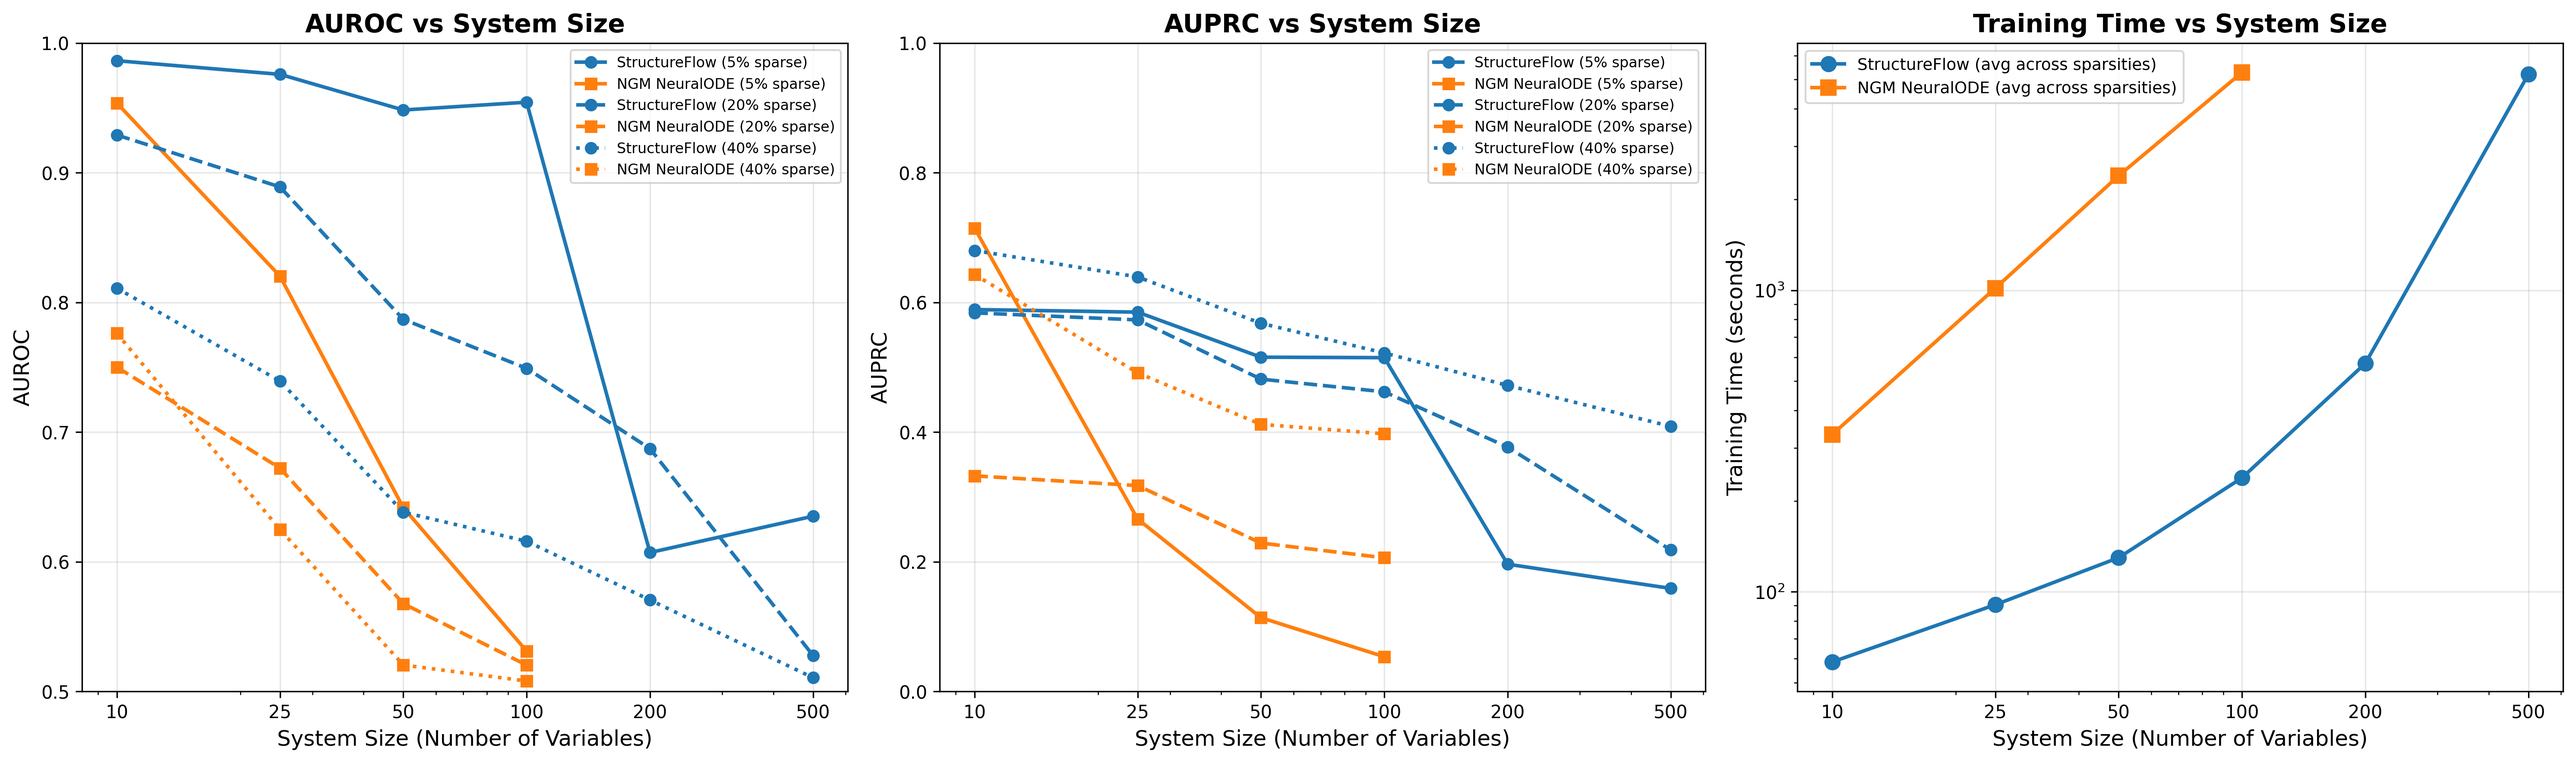
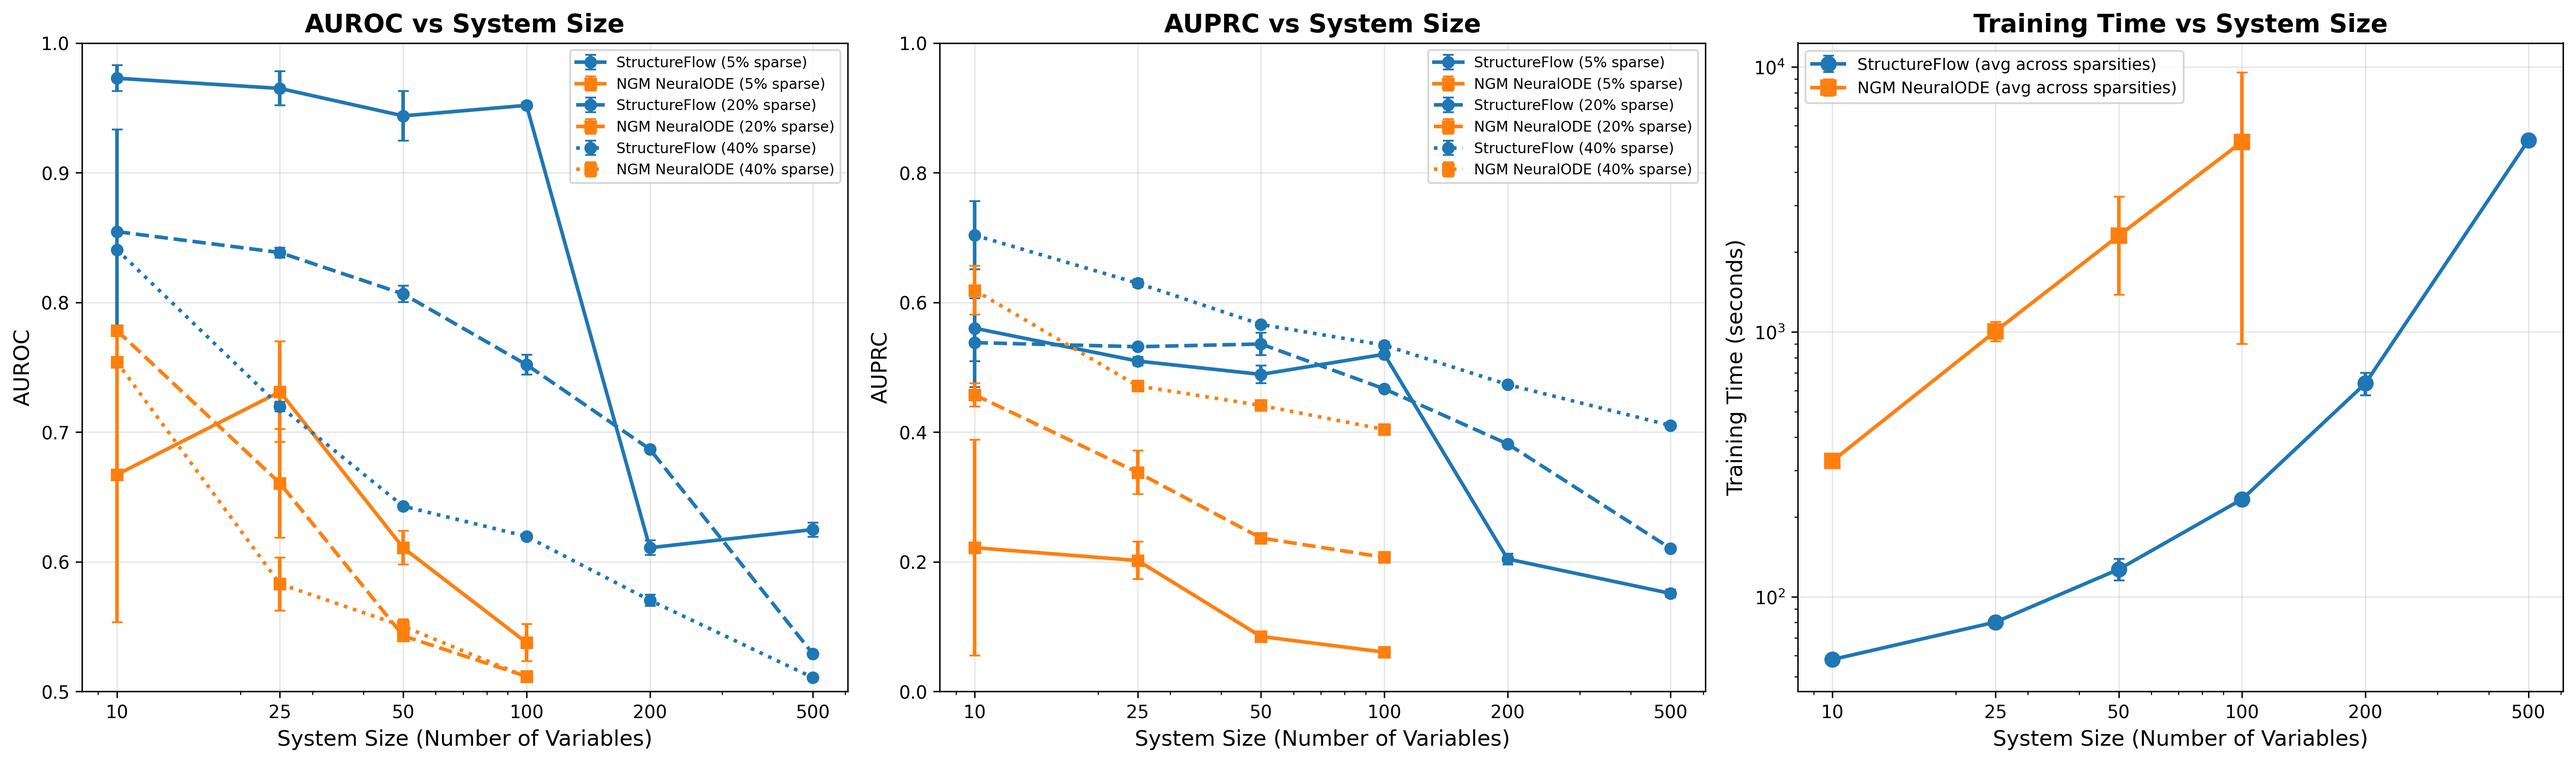
test

diff --git a/scaling_experiment/plot_scaling_results.py b/scaling_experiment/plot_scaling_results.py
@@ -11,70 +11,131 @@ def plot_scaling_results():
     Uses CSV data with different sparsity levels for StructureFlow and NGM-NODE methods.
     """
 
-    # CSV data from the experiment results
-    csv_data = """seed,system_size,sparsity,structureflow_auroc,structureflow_auprc,structureflow_time,ngmnode_auroc,ngmnode_auprc,ngmnode_time
-3728,10,0.05,0.9863,0.5889,58.5515,0.9536,0.7143,316.0287
-3728,10,0.20,0.9290,0.5838,58.6428,0.7500,0.3324,339.1738
-3728,10,0.40,0.8109,0.6799,58.4385,0.7761,0.6428,342.7522
-3728,25,0.05,0.9758,0.5849,94.6083,0.8202,0.2659,1061.2054
-3728,25,0.20,0.8890,0.5729,97.4592,0.6722,0.3174,1054.7041
-3728,25,0.40,0.7393,0.6392,79.8138,0.6249,0.4913,934.0664
-3728,50,0.05,0.9483,0.5154,145.0283,0.6417,0.1137,3170.8114
-3728,50,0.20,0.7869,0.4816,122.5391,0.5677,0.2288,2773.2565
-3728,50,0.40,0.6382,0.5677,121.8200,0.5204,0.4118,1252.6854
-3728,100,0.05,0.9543,0.5147,248.4641,0.5311,0.0535,10463.3073
-3728,100,0.20,0.7491,0.4620,235.3687,0.5203,0.2061,2967.9328
-3728,100,0.40,0.6158,0.5219,232.6693,0.5080,0.3973,2409.0556
-3728,200,0.05,0.6071,0.1962,577.1567,,,
-3728,200,0.20,0.6872,0.3768,569.9031,,,
-3728,200,0.40,0.5705,0.4719,570.0570,,,
-3728,500,0.05,0.6351,0.1589,4965.4467,,,
-3728,500,0.20,0.5277,0.2181,5328.5185,,,
-3728,500,0.40,0.5106,0.4087,5315.9313,,,"""
+    # CSV data from the experiment results (multiple seeds)
+    csv_data = """num_vars,seed,sparsity_target,sparsity_actual,true_edges,edge_density,max_eigenvalue_real,Correlation-pearson_AUROC,Correlation-pearson_AUPRC,Correlation-pearson_training_time,Correlation-pearson_num_true_edges,StructureFlow_AUROC,StructureFlow_AUPRC,StructureFlow_training_time,StructureFlow_num_true_edges,NGM-NODE_AUROC,NGM-NODE_AUPRC,NGM-NODE_training_time,NGM-NODE_num_true_edges,experiment_id,total_experiments
+10,4852,0.05,0.06666666666666667,6,0.06666666666666667,0.0,0.9734042553191489,0.7028138528138528,0.018625736236572266,6,0.9627659574468085,0.509090909090909,57.84497809410095,6,0.7810283687943262,0.3880834899749373,322.7519874572754,6.0,1,36
+10,4852,0.2,0.26666666666666666,24,0.26666666666666666,0.395655448780167,0.8135964912280701,0.5441361603475161,0.012085437774658203,24,0.7757675438596491,0.4692447182908081,57.832767486572266,24,0.7785087719298245,0.47540794937623915,324.6383876800537,24.0,2,36
+10,4852,0.4,0.4111111111111111,37,0.4111111111111111,1.3182096866621533,0.8631488631488632,0.7907212834471284,0.012024879455566406,37,0.8421278421278421,0.7562902634055009,57.44078350067139,37,0.752895752895753,0.6563467965949508,328.1729917526245,37.0,3,36
+25,4852,0.05,0.043333333333333335,26,0.043333333333333335,0.5922078331269707,0.9792603056376012,0.5439231326379298,0.06764602661132812,26,0.9780724284063181,0.5028348937550893,87.44798159599304,26,0.7698407602414281,0.17294465805593287,1063.5547759532928,26.0,4,36
+25,4852,0.2,0.20333333333333334,122,0.20333333333333334,1.4305823939895372,0.8249193364403741,0.5595433355443513,0.06808209419250488,122,0.834493041749503,0.5292155372923445,77.5687415599823,122,0.7024655346608872,0.37147276335234236,997.8577566146851,122.0,5,36
+25,4852,0.4,0.425,255,0.425,1.9448587728752682,0.7307154213036565,0.6671333191730175,0.06723880767822266,255,0.716120826709062,0.6356068852578105,77.48430800437927,255,0.5623635400105989,0.4655221440980293,824.9652671813965,255.0,6,36
+50,4852,0.05,0.05061224489795919,124,0.05061224489795919,0.9029008473795888,0.9500753502769631,0.5227702410383083,0.44240498542785645,124,0.9247023324644292,0.47501918118317865,152.57684564590454,124,0.5977449223416965,0.0778863190985196,3123.374433517456,124.0,7,36
+50,4852,0.2,0.20530612244897958,503,0.20530612244897958,2.3717790475785843,0.8656085519929995,0.6316451281948303,0.43462538719177246,503,0.812686226158323,0.5528893190794936,119.93507289886475,503,0.5411253062496328,0.23896093426619205,2550.32168841362,503.0,8,36
+50,4852,0.4,0.4008163265306122,982,0.4008163265306122,2.9518286499428354,0.7080847883778904,0.6359765607805926,0.42153072357177734,982,0.642092916233977,0.5640048208068421,119.54320907592773,982,0.5557294140376581,0.4414136447103131,1409.912146806717,982.0,9,36
+100,4852,0.05,0.05141414141414141,509,0.05141414141414141,1.5918627066326754,0.9705788898551185,0.5697944849005392,1.9889872074127197,509,0.9495254422605721,0.5183048428380559,237.41640973091125,509,0.5233350010629447,0.05770131366065983,10360.619023323059,509.0,10,36
+100,4852,0.2,0.2006060606060606,1986,0.2006060606060606,3.2186210953942624,0.8243974354044572,0.5559764380525823,2.2313003540039062,1986,0.7595058659933234,0.4685942391145377,231.6057665348053,1986,0.5109463210278287,0.2035805347143642,3091.8110506534576,1986.0,11,36
+100,4852,0.4,0.39616161616161616,3922,0.39616161616161616,4.323132007151699,0.6578295686586025,0.5801396233834728,4.368826866149902,3922,0.6195861248944748,0.5296250846965184,233.59105587005615,3922,0.5092083552941457,0.3973237266569635,2388.5191402435303,3922.0,12,36
+200,4852,0.05,0.05050251256281407,2010,0.05050251256281407,2.2949998574409403,0.96814073879091,0.5526191264144195,7.927350759506226,2010,0.6165340774411701,0.21256994183718592,571.4490671157837,2010,,,,,13,36
+200,4852,0.2,0.2014070351758794,8016,0.2014070351758794,5.244219711505882,0.7674918500293061,0.4897851792773821,7.621973991394043,8016,0.6868925843441931,0.38349873985718347,816.0332379341125,8016,,,,,14,36
+200,4852,0.4,0.4037437185929648,16069,0.4037437185929648,6.501912281236235,0.6218929139158376,0.5434334918619736,9.272216081619263,16069,0.5659527723198657,0.4721297261061206,733.2379455566406,16069,,,,,15,36
+500,4852,0.05,0.04988777555110221,12447,0.04988777555110221,3.8611548089595615,0.9566752835561358,0.5056815473923015,68.93512034416199,12447,0.630302922060287,0.15696211134066831,5138.624960422516,12447,,,,,16,36
+500,4852,0.2,0.19991583166332666,49879,0.19991583166332666,7.902942738804681,0.6907708196953042,0.39733471936704684,60.267064571380615,49879,0.5289162359044275,0.22013346016343596,5084.449959278107,49879,,,,,17,36
+500,4852,0.4,0.4006733466933868,99968,0.4006733466933868,10.794718762436169,0.5796870370572546,0.4911130286332667,62.461748361587524,99968,0.5104833479061066,0.4090570671710845,5428.748547077179,99968,,,,,18,36
+10,2502,0.05,0.03333333333333333,3,0.03333333333333333,0.0,0.993127147766323,0.8055555555555556,0.24680805206298828,3,0.9828178694158075,0.6111111111111112,60.89986515045166,3,0.5532646048109965,0.055272108843537414,313.9014484882355,3.0,19,36
+10,2502,0.2,0.14444444444444443,13,0.14444444444444443,0.45274256050913675,0.9336870026525199,0.6670541199116324,0.021987438201904297,13,0.9332449160035367,0.6064580347189044,57.0928475856781,13,0.7780725022104332,0.43960817162269067,328.5199406147003,13.0,20,36
+10,2502,0.4,0.3333333333333333,30,0.3333333333333333,0.8311741245831212,0.8638095238095238,0.7129846759193442,0.011591434478759766,30,0.8390476190476192,0.6508294299766001,56.757171869277954,30,0.7552380952380953,0.5807710817767366,336.25325417518616,30.0,21,36
+25,2502,0.05,0.05333333333333334,32,0.05333333333333334,0.7196140462937763,0.9381323777403034,0.5174637896473324,0.0668649673461914,32,0.9517811973018548,0.5160586468732333,80.30390334129333,32,0.692295531197302,0.23074941235248975,1068.1875479221344,32.0,22,36
+25,2502,0.2,0.19833333333333333,119,0.19833333333333333,1.3123505169597558,0.8755272860132195,0.5792912693317145,0.06846141815185547,119,0.8422792041717873,0.5339294313329173,78.74769520759583,119,0.6186601122662504,0.3039079820751982,1081.0779702663422,119.0,23,36
+25,2502,0.4,0.385,231,0.385,1.732993189034112,0.7258663502318325,0.6388499507982699,0.06640362739562988,231,0.7234766079943745,0.6233801558082154,79.93856620788574,231,0.6033632188454524,0.4766637796190075,995.7301144599915,231.0,24,36
+50,2502,0.05,0.05061224489795919,124,0.05061224489795919,1.011096206290654,0.9766515966112741,0.570391982943973,0.74066162109375,124,0.9628102259150646,0.5027629030484266,128.71913838386536,124,0.6237271912675139,0.09157567784636376,3192.3506700992584,124.0,25,36
+50,2502,0.2,0.20489795918367346,502,0.20489795918367346,2.2483800453103733,0.8555806802818755,0.5841160314833563,0.36829495429992676,502,0.8002683958859258,0.5185753101194658,121.33024144172668,502,0.5446083533732936,0.2342731467410447,2368.58771276474,502.0,26,36
+50,2502,0.4,0.4048979591836735,992,0.4048979591836735,2.864936135818015,0.704673863052965,0.6335978337504595,0.541236162185669,992,0.6435709816462736,0.5677720499751625,119.8461434841156,992,0.5446442895952769,0.4405993383653992,1217.2671146392822,992.0,27,36
+100,2502,0.05,0.05171717171717172,512,0.05171717171717172,1.621375368082806,0.9735850548060708,0.5677566445259788,1.9422035217285156,512,0.954265214942559,0.5215528299995554,231.66685247421265,512,0.5519869259195826,0.06354449333459561,10017.93087887764,512.0,28,36
+100,2502,0.2,0.20656565656565656,2045,0.20656565656565656,3.2842529847499775,0.8198650415924539,0.5568001360244068,2.343620777130127,2045,0.744290976596657,0.4645960126865602,232.7276487350464,2045,0.5122506027947547,0.2101899865277203,3071.490483045578,2045.0,29,36
+100,2502,0.4,0.40545454545454546,4014,0.40545454545454546,4.275314334045096,0.6645226505093849,0.5940594166285376,1.9593420028686523,4014,0.6194301609918242,0.5382326014982242,234.22895073890686,4014,0.5131996457104444,0.41053888331431937,2378.5854711532593,4014.0,30,36
+200,2502,0.05,0.051457286432160805,2048,0.051457286432160805,2.4913927807530074,0.9694603056368901,0.549223169181854,7.6718058586120605,2048,0.6050699115000526,0.19588061767962656,571.2099781036377,2048,,,,,31,36
+200,2502,0.2,0.19924623115577889,7930,0.19924623115577889,4.6654139694379095,0.7738436412151697,0.490576798241162,7.632061004638672,7930,0.6866895221715108,0.379842272121609,571.0319414138794,7930,,,,,32,36
+200,2502,0.4,0.39977386934673365,15911,0.39977386934673365,6.696018599710984,0.6306827180548562,0.5518513860566123,7.34396767616272,15911,0.574681301138012,0.47429580458434983,571.5179307460785,15911,,,,,33,36
+500,2502,0.05,0.050569138276553106,12617,0.050569138276553106,3.7046298903105104,0.9528146534159547,0.49974282880661985,62.05327916145325,12617,0.6193330312429121,0.14535419062724012,5360.002261638641,12617,,,,,34,36
+500,2502,0.2,0.2014188376753507,50254,0.2014188376753507,8.180315170301121,0.6895586017834803,0.3970475162183286,61.09390330314636,50254,0.5291851691465888,0.2208703164645075,5353.444791316986,50254,,,,,35,36
+500,2502,0.4,0.40139078156312624,100147,0.40139078156312624,11.074895782446818,0.5797805580917403,0.49229326803046286,60.75722599029541,100147,0.5108339833222751,0.4111183272903037,5351.249730587006,100147,,,,,36,36"""
 
     df = pd.read_csv(io.StringIO(csv_data))
+
+    # Calculate means and standard errors across seeds for each system size and sparsity
+    def calculate_stats(group):
+        stats = {}
+        for col in [
+            "StructureFlow_AUROC",
+            "StructureFlow_AUPRC",
+            "StructureFlow_training_time",
+            "NGM-NODE_AUROC",
+            "NGM-NODE_AUPRC",
+            "NGM-NODE_training_time",
+        ]:
+            if col in group.columns:
+                values = group[col].dropna()
+                if len(values) > 0:
+                    stats[f"{col}_mean"] = values.mean()
+                    stats[f"{col}_std"] = values.std()
+                    stats[f"{col}_count"] = len(values)
+                else:
+                    stats[f"{col}_mean"] = np.nan
+                    stats[f"{col}_std"] = np.nan
+                    stats[f"{col}_count"] = 0
+        return pd.Series(stats)
+
+    # Group by system size and sparsity target, then calculate statistics
+    stats_df = (
+        df.groupby(["num_vars", "sparsity_target"]).apply(calculate_stats).reset_index()
+    )
+    stats_df = stats_df.rename(
+        columns={"num_vars": "system_size", "sparsity_target": "sparsity"}
+    )
 
     # Set up the plotting style
     plt.style.use("default")
 
     # Define colors and line styles
     colors = {"StructureFlow": "#1f77b4", "NGM-NODE": "#ff7f0e"}
-    line_styles = {0.05: "-", 0.20: "--", 0.40: ":"}
-    sparsity_labels = {0.05: "5% sparse", 0.20: "20% sparse", 0.40: "40% sparse"}
+    line_styles = {0.05: "-", 0.2: "--", 0.4: ":"}
+    sparsity_labels = {0.05: "5% sparse", 0.2: "20% sparse", 0.4: "40% sparse"}
 
     # Create figure with three subplots
     fig, (ax1, ax2, ax3) = plt.subplots(1, 3, figsize=(20, 6))
 
     # Plot 1: AUROC vs System Size
-    for sparsity in [0.05, 0.20, 0.40]:
-        sparsity_data = df[df["sparsity"] == sparsity]
+    for sparsity in [0.05, 0.2, 0.4]:
+        sparsity_data = stats_df[stats_df["sparsity"] == sparsity]
 
         # StructureFlow
         x_sf = sparsity_data["system_size"]
-        y_sf = sparsity_data["structureflow_auroc"]
-        ax1.plot(
+        y_sf = sparsity_data["StructureFlow_AUROC_mean"]
+        y_err_sf = sparsity_data["StructureFlow_AUROC_std"] / np.sqrt(
+            sparsity_data["StructureFlow_AUROC_count"]
+        )
+        ax1.errorbar(
             x_sf,
             y_sf,
+            yerr=y_err_sf,
             color=colors["StructureFlow"],
             linestyle=line_styles[sparsity],
             marker="o",
             linewidth=2,
             markersize=6,
+            capsize=3,
+            capthick=1,
             label=f"StructureFlow ({sparsity_labels[sparsity]})",
         )
 
         # NGM-NODE (filter out NaN values)
-        ngm_data = sparsity_data.dropna(subset=["ngmnode_auroc"])
+        ngm_data = sparsity_data.dropna(subset=["NGM-NODE_AUROC_mean"])
         x_ngm = ngm_data["system_size"]
-        y_ngm = ngm_data["ngmnode_auroc"]
-        ax1.plot(
+        y_ngm = ngm_data["NGM-NODE_AUROC_mean"]
+        y_err_ngm = ngm_data["NGM-NODE_AUROC_std"] / np.sqrt(
+            ngm_data["NGM-NODE_AUROC_count"]
+        )
+        ax1.errorbar(
             x_ngm,
             y_ngm,
+            yerr=y_err_ngm,
             color=colors["NGM-NODE"],
             linestyle=line_styles[sparsity],
             marker="s",
             linewidth=2,
             markersize=6,
+            capsize=3,
+            capthick=1,
             label=f"NGM NeuralODE ({sparsity_labels[sparsity]})",
         )
 
@@ -89,35 +150,47 @@ def plot_scaling_results():
     ax1.set_xticklabels([10, 25, 50, 100, 200, 500])
 
     # Plot 2: AUPRC vs System Size
-    for sparsity in [0.05, 0.20, 0.40]:
-        sparsity_data = df[df["sparsity"] == sparsity]
+    for sparsity in [0.05, 0.2, 0.4]:
+        sparsity_data = stats_df[stats_df["sparsity"] == sparsity]
 
         # StructureFlow
         x_sf = sparsity_data["system_size"]
-        y_sf = sparsity_data["structureflow_auprc"]
-        ax2.plot(
+        y_sf = sparsity_data["StructureFlow_AUPRC_mean"]
+        y_err_sf = sparsity_data["StructureFlow_AUPRC_std"] / np.sqrt(
+            sparsity_data["StructureFlow_AUPRC_count"]
+        )
+        ax2.errorbar(
             x_sf,
             y_sf,
+            yerr=y_err_sf,
             color=colors["StructureFlow"],
             linestyle=line_styles[sparsity],
             marker="o",
             linewidth=2,
             markersize=6,
+            capsize=3,
+            capthick=1,
             label=f"StructureFlow ({sparsity_labels[sparsity]})",
         )
 
         # NGM-NODE (filter out NaN values)
-        ngm_data = sparsity_data.dropna(subset=["ngmnode_auprc"])
+        ngm_data = sparsity_data.dropna(subset=["NGM-NODE_AUPRC_mean"])
         x_ngm = ngm_data["system_size"]
-        y_ngm = ngm_data["ngmnode_auprc"]
-        ax2.plot(
+        y_ngm = ngm_data["NGM-NODE_AUPRC_mean"]
+        y_err_ngm = ngm_data["NGM-NODE_AUPRC_std"] / np.sqrt(
+            ngm_data["NGM-NODE_AUPRC_count"]
+        )
+        ax2.errorbar(
             x_ngm,
             y_ngm,
+            yerr=y_err_ngm,
             color=colors["NGM-NODE"],
             linestyle=line_styles[sparsity],
             marker="s",
             linewidth=2,
             markersize=6,
+            capsize=3,
+            capthick=1,
             label=f"NGM NeuralODE ({sparsity_labels[sparsity]})",
         )
 
@@ -133,10 +206,14 @@ def plot_scaling_results():
 
     # Plot 3: Training Time vs System Size (averaged over sparsity levels)
     # Calculate averages for StructureFlow
-    sf_avg_data = df.groupby("system_size")["structureflow_time"].mean().reset_index()
+    sf_avg_data = (
+        stats_df.groupby("system_size")["StructureFlow_training_time_mean"]
+        .mean()
+        .reset_index()
+    )
     ax3.plot(
         sf_avg_data["system_size"],
-        sf_avg_data["structureflow_time"],
+        sf_avg_data["StructureFlow_training_time_mean"],
         color=colors["StructureFlow"],
         linestyle="-",
         marker="o",
@@ -147,14 +224,14 @@ def plot_scaling_results():
 
     # Calculate averages for NGM-NODE (only where data exists)
     ngm_avg_data = (
-        df.dropna(subset=["ngmnode_time"])
-        .groupby("system_size")["ngmnode_time"]
+        stats_df.dropna(subset=["NGM-NODE_training_time_mean"])
+        .groupby("system_size")["NGM-NODE_training_time_mean"]
         .mean()
         .reset_index()
     )
     ax3.plot(
         ngm_avg_data["system_size"],
-        ngm_avg_data["ngmnode_time"],
+        ngm_avg_data["NGM-NODE_training_time_mean"],
         color=colors["NGM-NODE"],
         linestyle="-",
         marker="s",
@@ -185,27 +262,57 @@ def plot_scaling_results():
     print("SCALING EXPERIMENT SUMMARY")
     print("=" * 80)
 
-    for sparsity in [0.05, 0.20, 0.40]:
+    for sparsity in [0.05, 0.2, 0.4]:
         print(f"\nSparsity: {sparsity_labels[sparsity]}")
         print("-" * 40)
-        sparsity_data = df[df["sparsity"] == sparsity]
+        sparsity_data = stats_df[stats_df["sparsity"] == sparsity]
 
         for _, row in sparsity_data.iterrows():
             system_size = int(row["system_size"])
-            sf_auroc = row["structureflow_auroc"]
-            sf_auprc = row["structureflow_auprc"]
-            sf_time = row["structureflow_time"]
-            ngm_auroc = row["ngmnode_auroc"] if pd.notna(row["ngmnode_auroc"]) else None
-            ngm_auprc = row["ngmnode_auprc"] if pd.notna(row["ngmnode_auprc"]) else None
-            ngm_time = row["ngmnode_time"] if pd.notna(row["ngmnode_time"]) else None
+            sf_auroc = row["StructureFlow_AUROC_mean"]
+            sf_auroc_std = row["StructureFlow_AUROC_std"]
+            sf_auprc = row["StructureFlow_AUPRC_mean"]
+            sf_auprc_std = row["StructureFlow_AUPRC_std"]
+            sf_time = row["StructureFlow_training_time_mean"]
+            sf_time_std = row["StructureFlow_training_time_std"]
+            ngm_auroc = (
+                row["NGM-NODE_AUROC_mean"]
+                if pd.notna(row["NGM-NODE_AUROC_mean"])
+                else None
+            )
+            ngm_auroc_std = (
+                row["NGM-NODE_AUROC_std"]
+                if pd.notna(row["NGM-NODE_AUROC_std"])
+                else None
+            )
+            ngm_auprc = (
+                row["NGM-NODE_AUPRC_mean"]
+                if pd.notna(row["NGM-NODE_AUPRC_mean"])
+                else None
+            )
+            ngm_auprc_std = (
+                row["NGM-NODE_AUPRC_std"]
+                if pd.notna(row["NGM-NODE_AUPRC_std"])
+                else None
+            )
+            ngm_time = (
+                row["NGM-NODE_training_time_mean"]
+                if pd.notna(row["NGM-NODE_training_time_mean"])
+                else None
+            )
+            ngm_time_std = (
+                row["NGM-NODE_training_time_std"]
+                if pd.notna(row["NGM-NODE_training_time_std"])
+                else None
+            )
 
             print(
-                f"  N={system_size:3d}: StructureFlow AUROC={sf_auroc:.4f}, AUPRC={sf_auprc:.4f}, Time={sf_time:6.1f}s",
+                f"  N={system_size:3d}: StructureFlow AUROC={sf_auroc:.4f}±{sf_auroc_std:.4f}, AUPRC={sf_auprc:.4f}±{sf_auprc_std:.4f}, Time={sf_time:6.1f}±{sf_time_std:5.1f}s",
                 end="",
             )
             if ngm_auroc is not None:
                 print(
-                    f" | NGM-NODE AUROC={ngm_auroc:.4f}, AUPRC={ngm_auprc:.4f}, Time={ngm_time:6.1f}s"
+                    f" | NGM-NODE AUROC={ngm_auroc:.4f}±{ngm_auroc_std:.4f}, AUPRC={ngm_auprc:.4f}±{ngm_auprc_std:.4f}, Time={ngm_time:6.1f}±{ngm_time_std:5.1f}s"
                 )
             else:
                 print(" | NGM-NODE: N/A")
@@ -213,7 +320,7 @@ def plot_scaling_results():
     # Show the plots
     plt.show()
 
-    return fig, df
+    return fig, stats_df
 
 
 def plot_auprc_comparison():
@@ -227,7 +334,7 @@ def plot_auprc_comparison():
 
 if __name__ == "__main__":
     # Create the main plots
-    fig, df = plot_scaling_results()
+    fig, stats_df = plot_scaling_results()
 
     # AUPRC comparison not available with new data
     plot_auprc_comparison()
